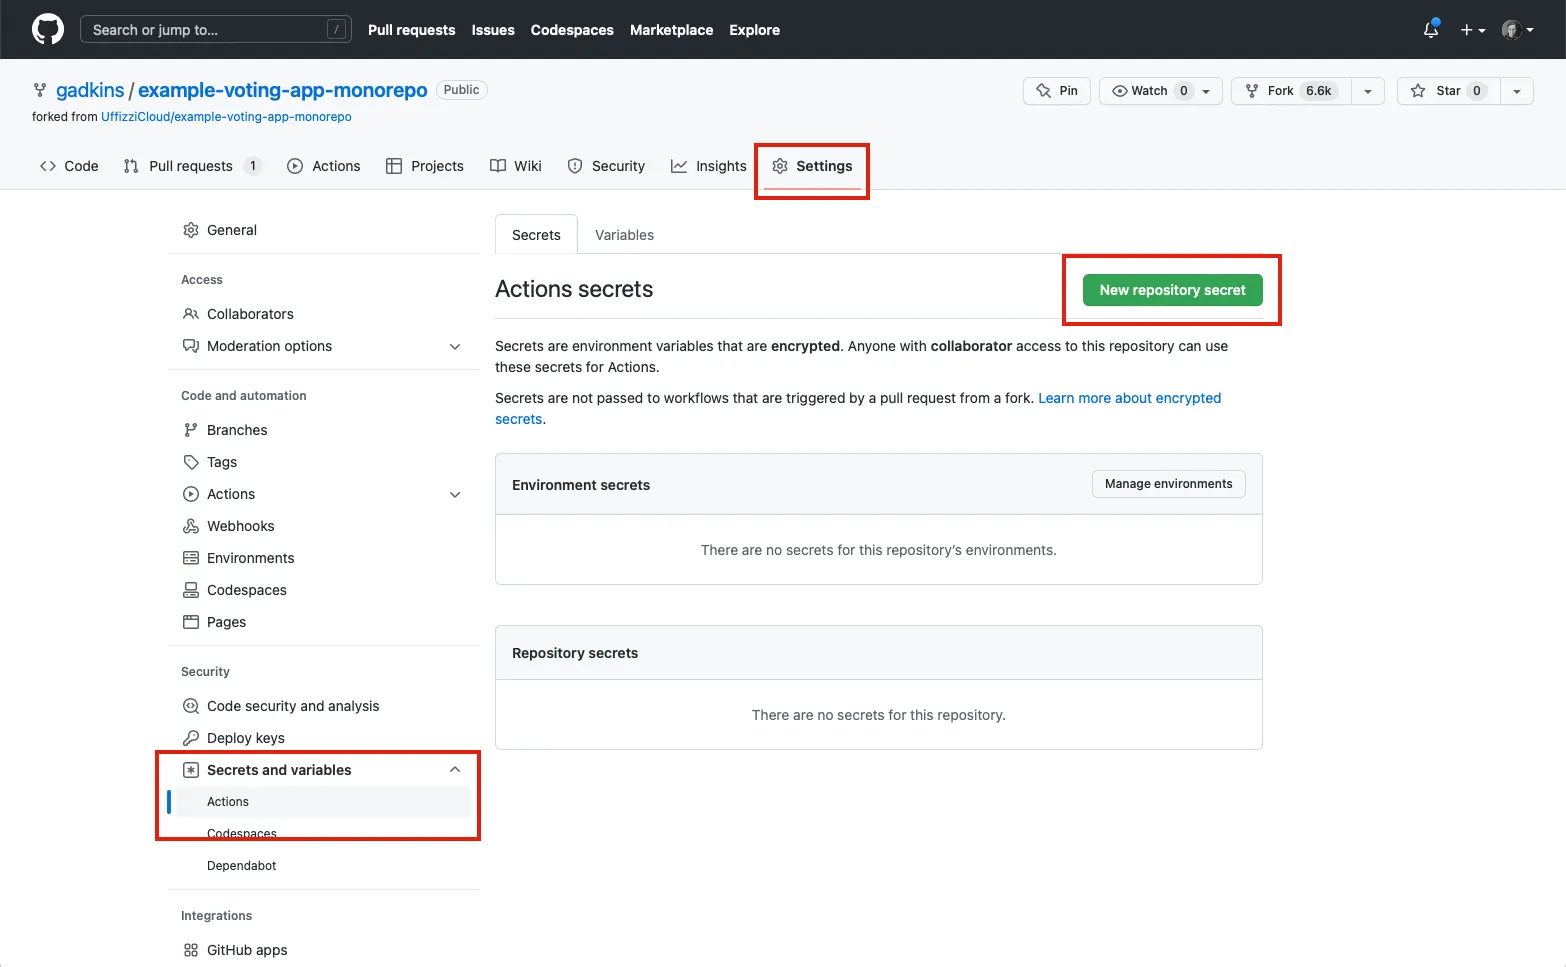
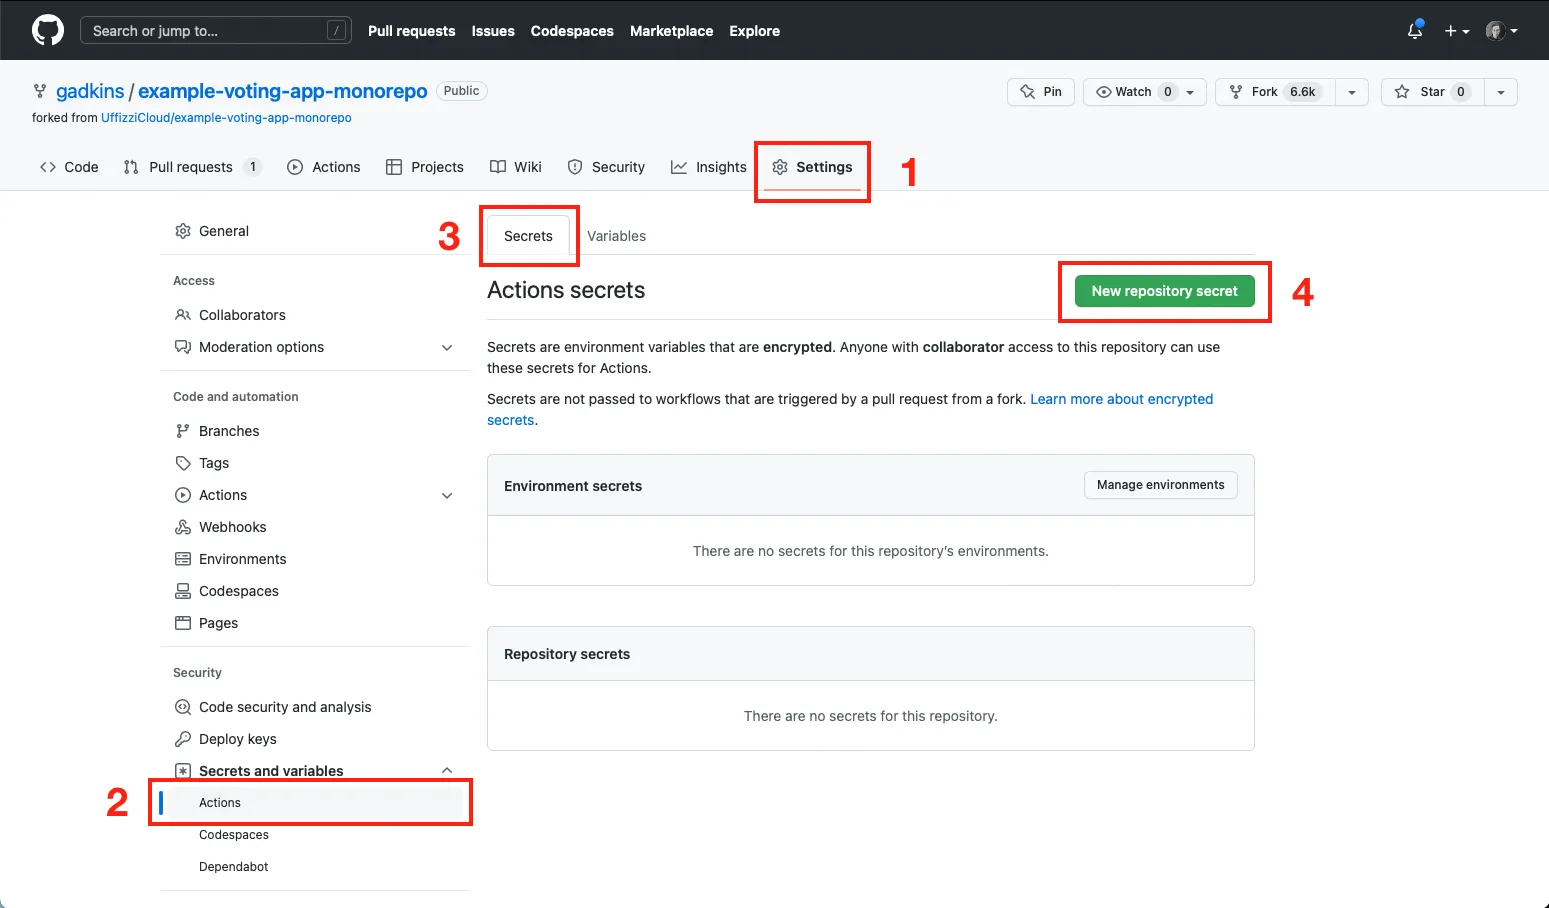
add clarifying language

diff --git a/docs/guides/password-protected.md b/docs/guides/password-protected.md
@@ -24,7 +24,7 @@ Password protection will now be enabled for all environments belonging to this p
 2. Enter a username and password, then select **Save**.
 3. Store credentials as GitHub Actions secrets.  
   &nbsp;  
-  In GitHub, navigate to your repository **Settings** > **Secrets and variables** > **Actions** > **New repository secret**. Add a secret name and value, then select **Add secret**.
+  In GitHub, navigate to your repository. Then select **Settings** > **Secrets and variables** > **Actions** >  **Secrets** (tab) > **New repository secret**. (_Be sure you add a new repository **secret** from the **Secrets** tab, not a new repository **variable** from the **Variables** tab_). Add a secret name and value, then select **Add secret**.       
   <details><summary>Click to expand</summary>
   <img src="../../assets/images/github-actions-secrets.webp">
   <img src="../../assets/images/add-secret.webp">
@@ -42,7 +42,7 @@ Password protection will now be enabled for all environments belonging to this p
     with:
       ...
     secrets:
-      url-username: admin
+      url-username: ${{ secrets.URL_USERNAME }}
       url-password: ${{ secrets.URL_PASSWORD }}
     permissions:
       ...
